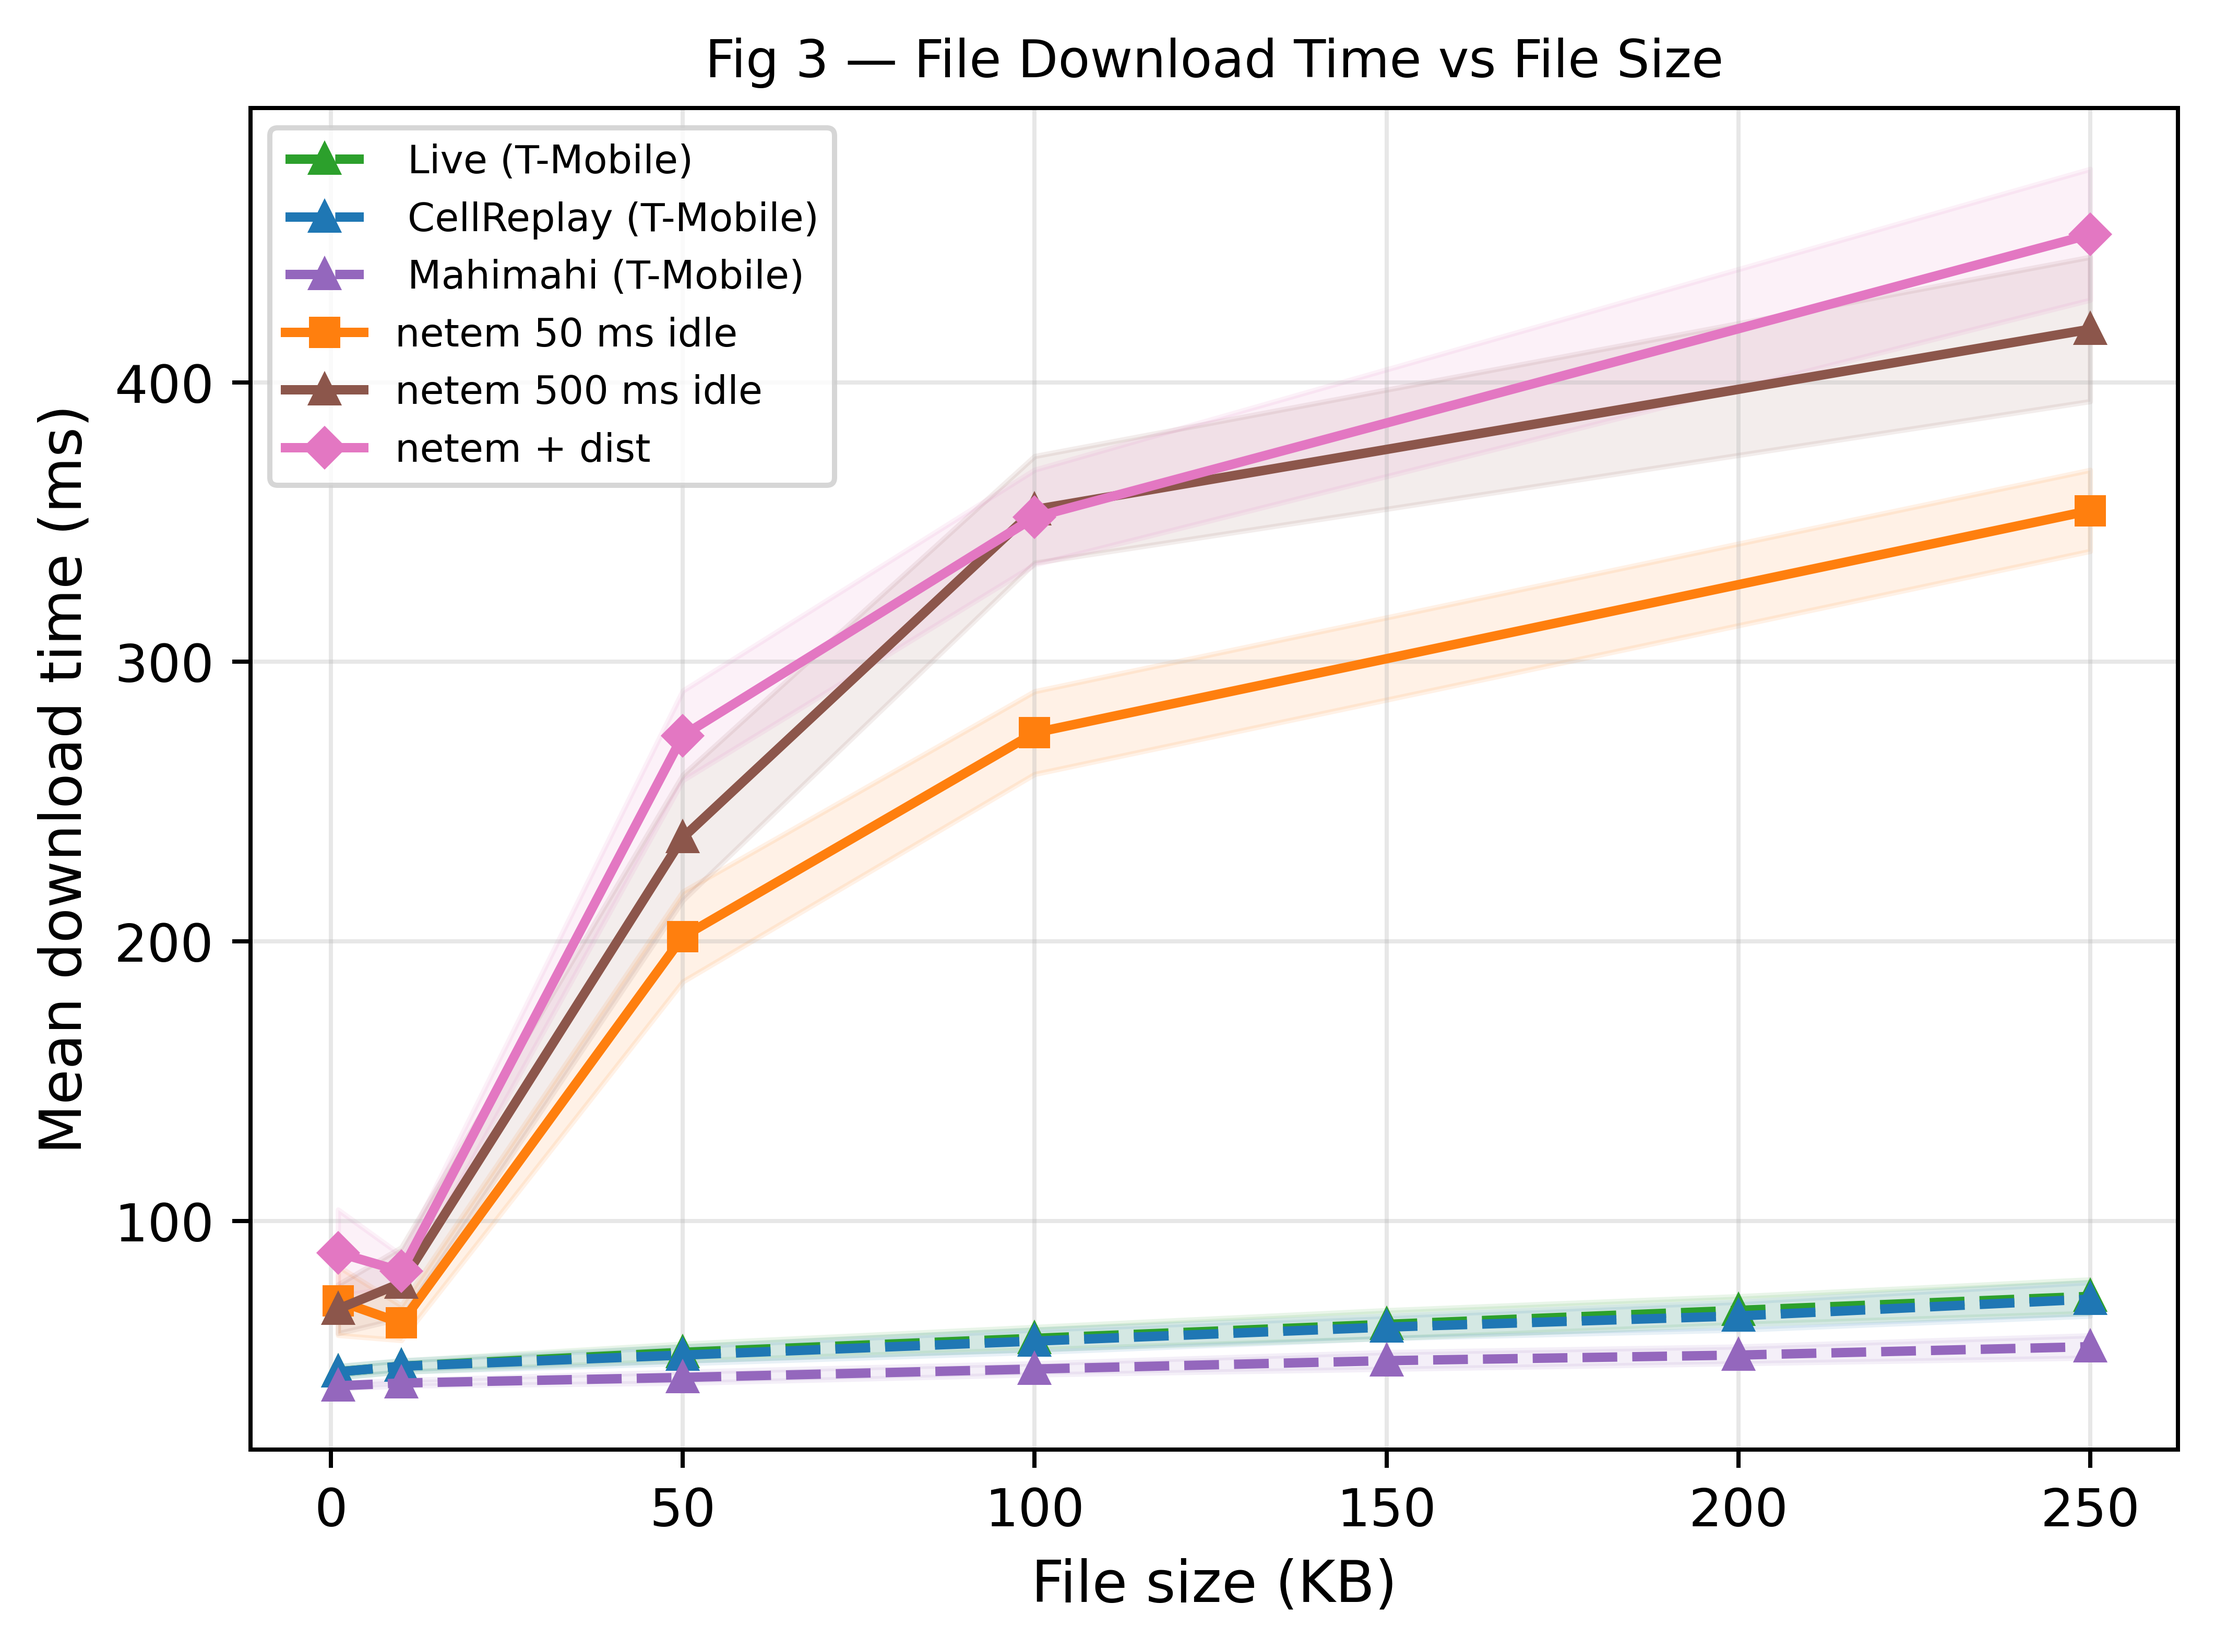
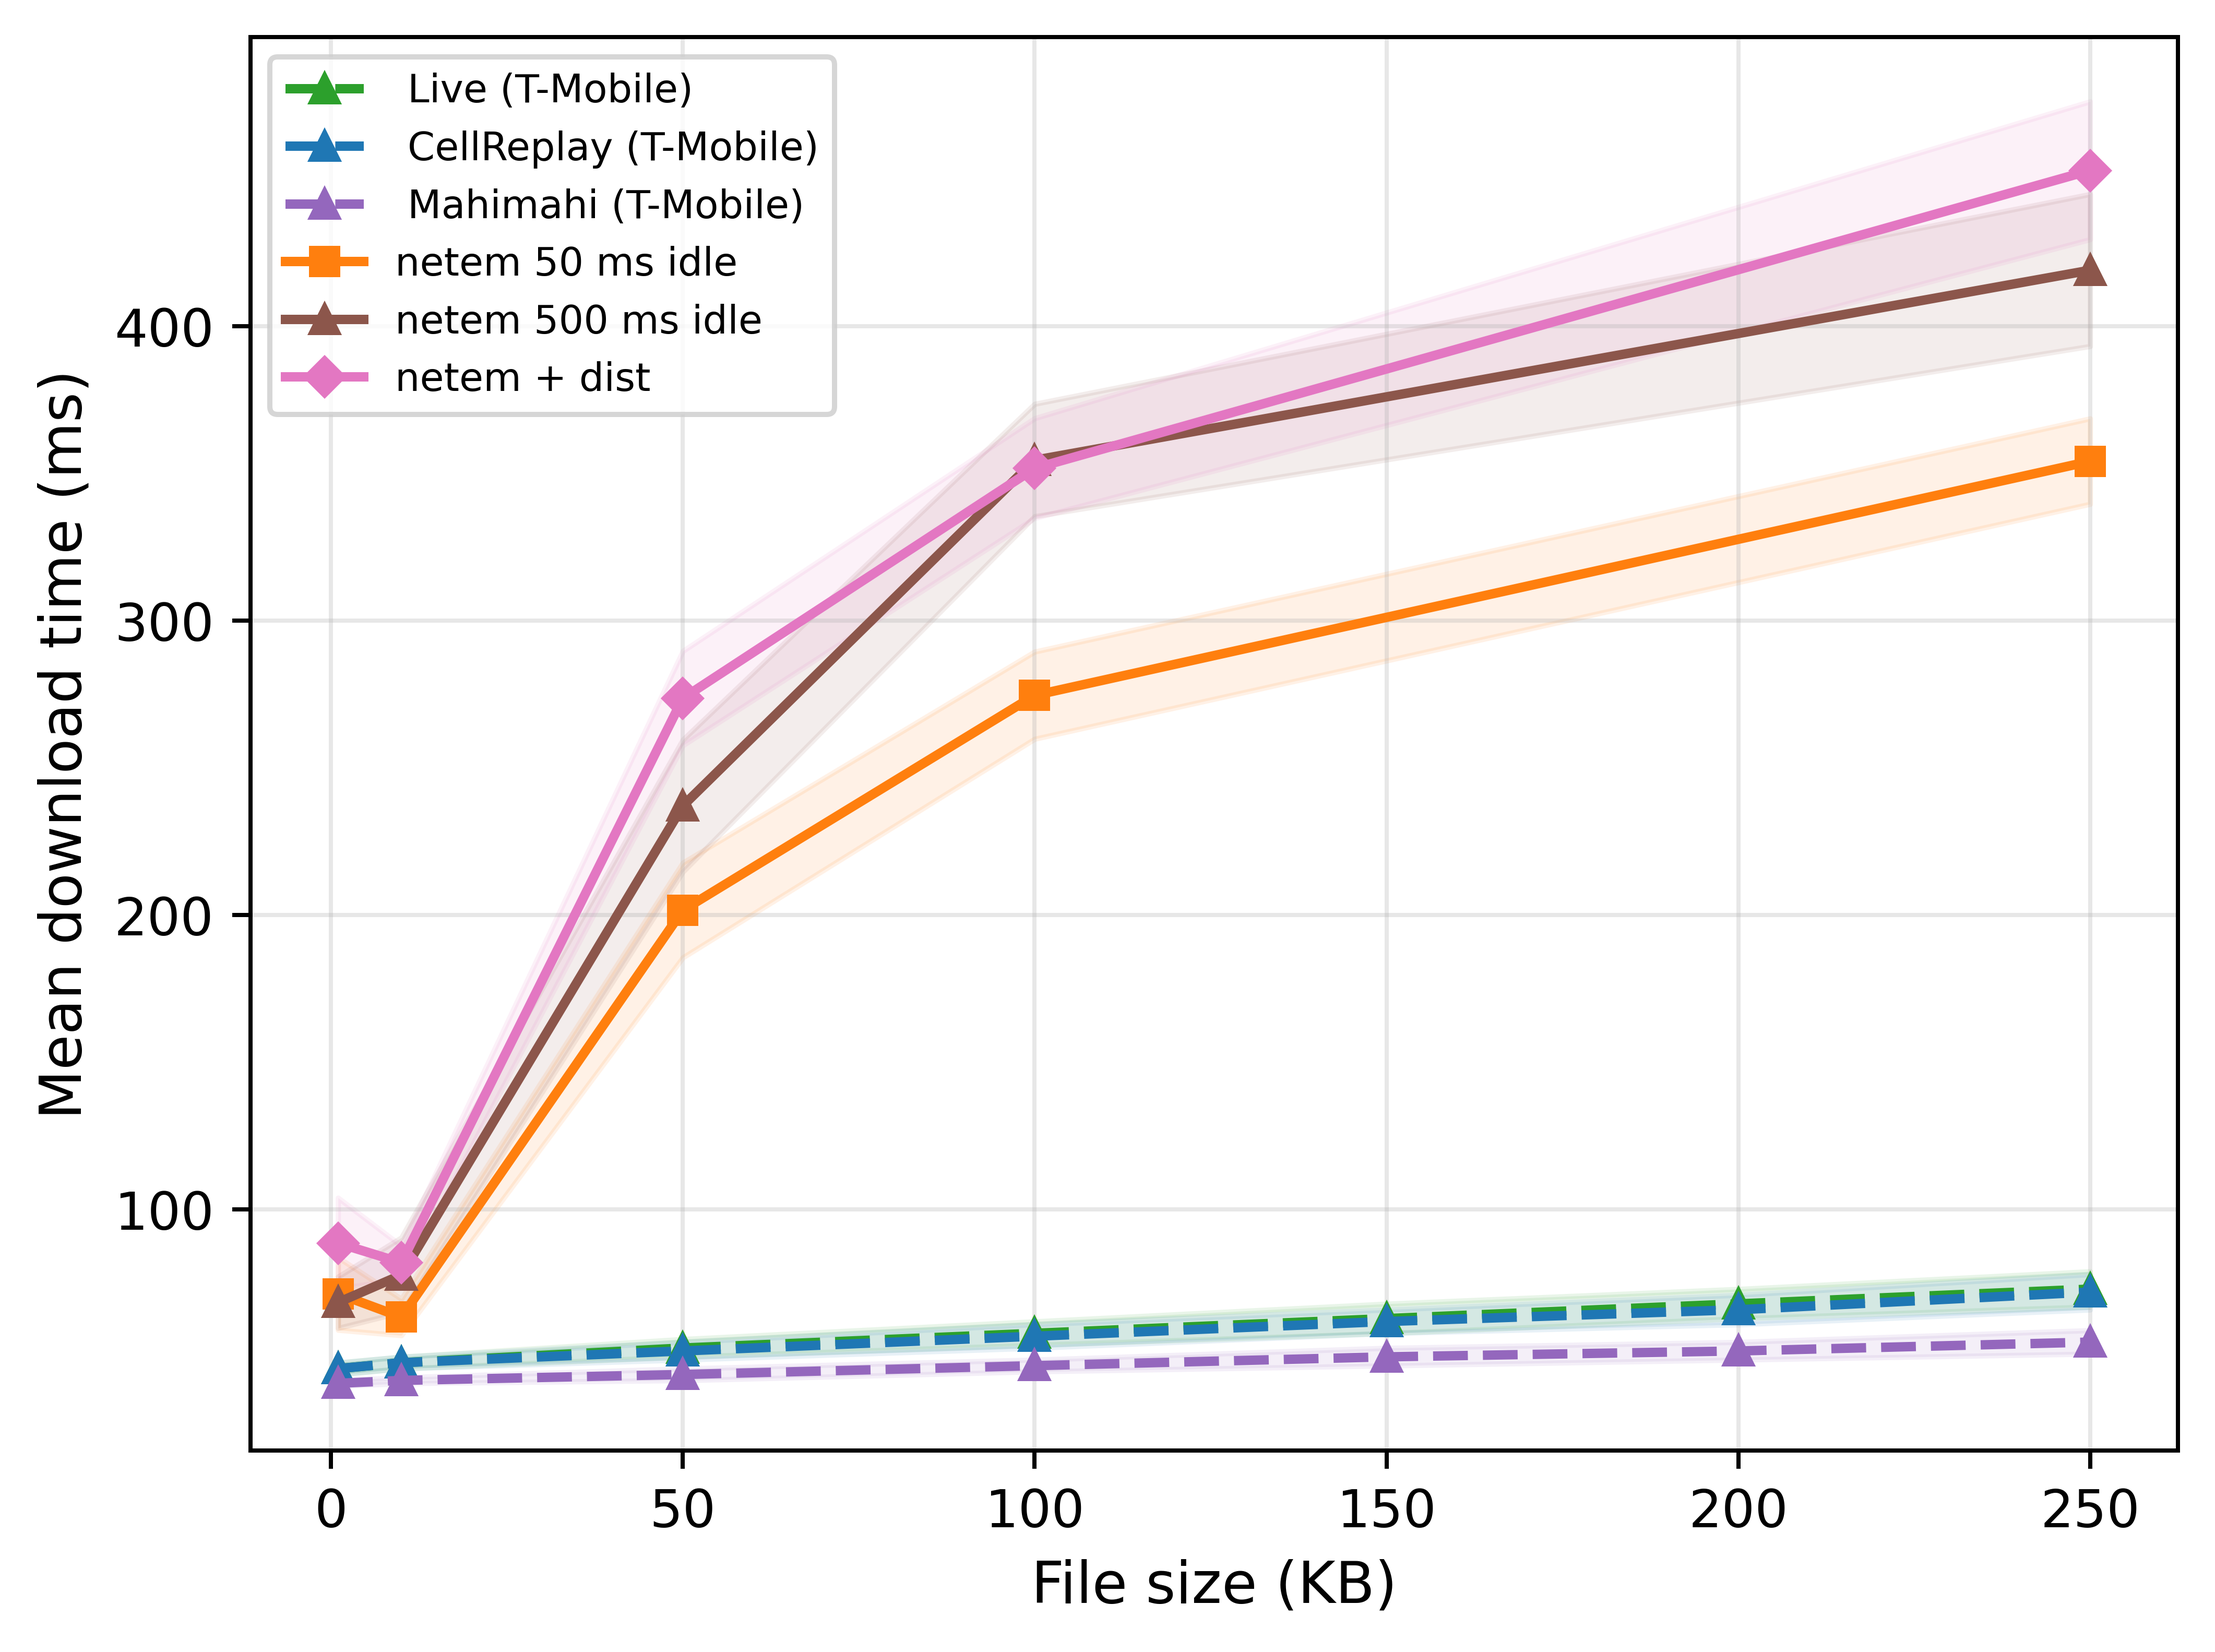
updated graphs

diff --git a/plot.py b/plot.py
@@ -157,7 +157,6 @@ def plot_rtt_cdf(results, out_path):
 
     ax.set_xlabel("Packet RTT (ms)")
     ax.set_ylabel("CDF")
-    ax.set_title("Fig 1 — RTT CDF")
     ax.set_ylim(0, 1)
     ax.set_xlim(0, 250)
     ax.set_yticks(np.arange(0, 1.1, 0.2))
@@ -255,7 +254,6 @@ def plot_tct(results, out_path):
 
     ax.set_xlabel("Train size (packets)")
     ax.set_ylabel("Mean TCT (ms)")
-    ax.set_title("Fig 2 — Train Completion Time vs Train Size")
     ax.legend(fontsize=7.5, loc="upper left")
     ax.grid(True, alpha=0.3)
 
@@ -346,7 +344,6 @@ def plot_download(results, out_path):
 
     ax.set_xlabel("File size (KB)")
     ax.set_ylabel("Mean download time (ms)")
-    ax.set_title("Fig 3 — File Download Time vs File Size")
     ax.legend(fontsize=7.5, loc="upper left")
     ax.grid(True, alpha=0.3)
     plt.tight_layout()
@@ -402,10 +399,6 @@ def plot_rel_arrivals(results, out_path):
         ax.legend(fontsize=7.5)
         ax.grid(True, alpha=0.3)
 
-    fig.suptitle(
-        "Fig 4 — Relative Packet Arrival Times Within a Train",
-        y=1.02,
-    )
     plt.tight_layout()
     plt.savefig(out_path, bbox_inches="tight", dpi=720)
     plt.close()
